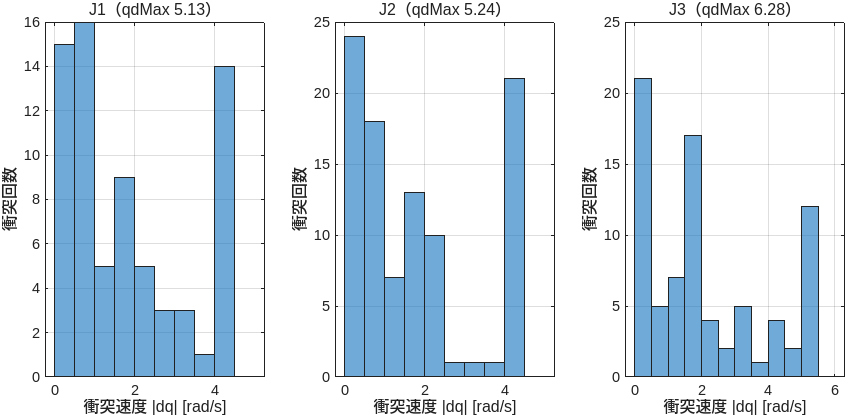
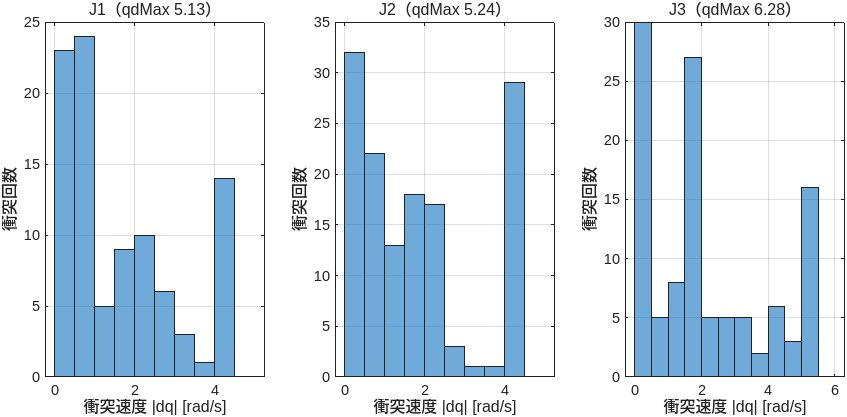
Phase 3-5: bounce 追加後の評価（動的接触 8,708 件・6.9%）とレポート更新 (#27)
Claude-Session: https://claude.ai/code/session_01Vx5dBJ2svBZYaCM69EYLSQ

diff --git a/test/test_sa_contact.m b/test/test_sa_contact.m
@@ -7,7 +7,7 @@ classdef test_sa_contact < matlab.unittest.TestCase
         tmpDir
     end
     properties (TestParameter)
-        scenarioName = {'contact_fall_001','contact_drive_002','contact_drive_004','contact_bln_003','contact_bounce_001','contact_bounce_002','contact_bounce_006'};
+        scenarioName = {'contact_fall_001','contact_drive_002','contact_drive_004','contact_bln_003','contact_bounce_001','contact_bounce_002','contact_bounce_006','contact_bounce_020','contact_bounce_031'};
     end
     methods (TestClassSetup)
         function build(tc)

diff --git a/docs/phase3_5_report.md b/docs/phase3_5_report.md
@@ -1,57 +1,57 @@
 # Phase 3-5 レポート — リミット接触シナリオの追加（3 軸）（issue #27）
 
-実施日: 2026-10-13 / MATLAB R2025a / 生成コード: コミット 37e76f2（クリーン。既存 158 本は 5cfdb77）
+実施日: 2026-10-13 / MATLAB R2025a / 生成コード: コミット 5cfdb77（既存 158 本）・37e76f2（接触 60 本）・追加 bounce 24 本は b4bd1c2（`genRepo` は 3 件、すべて未コミット差分なし）
 
 ## 成果物
 | ファイル | 内容 |
 |---|---|
-| `src/data/saScenarioSet.m` | 3 軸 full に接触 60 本を既存 158 本の**後ろ**へ追加（既存の名前・シード・split・キャッシュは不変。テストで確認）。6 軸と small には入れない |
+| `src/data/saScenarioSet.m` | 3 軸 full に接触 84 本を既存 158 本の**後ろ**へ追加（既存の名前・シード・split・キャッシュは不変。テストで確認）。6 軸と small には入れない |
 | `src/data/runSaScenario.m` | `contactTorque`: 目標軸だけバリアをリミットの外側（位置 1.10、速度 0.80）へ移した励振。他軸は初期姿勢の重力保持＋微小 BLN |
 | `src/data/saContactStats.m`, `tools/sa_contact_report.m` | 接触の統計（軸別・パターン別、動的／静止、衝突速度、めり込み）と図 |
 | `src/data/validateSaData.m` | 接触シナリオの \|dq\| 上限を qdMax の 1.5 倍に（下記 判断 2） |
 | `src/data/saAssembleDataset.m` | `genClean` を「全件が未コミット差分なしのコミットで生成」に変更（コミットは複数でもよい。`genRepo` に並ぶ） |
-| `test/test_sa_contact.m`（11 件）、`spike/phase35_*.m` | 表の検証・代表 7 本の実行・事前の実測 |
+| `test/test_sa_contact.m`（13 件）、`spike/phase35_*.m` | 表の検証・代表 9 本の実行・事前の実測 |
 
-## 接触シナリオ（60 本、継続時間の合計 216 s）
+## 接触シナリオ（84 本、継続時間の合計 252 s）
 | パターン | 本数 | 長さ | 内容 |
 |---|---|---|---|
 | `contact_fall` | 12 | 3 s | 全軸無トルク（微小 BLN）で、乱数姿勢（[0.6 qMin, 0.6 qMax]）から自由落下。バリアは全軸リミットの外側 |
 | `contact_drive` | 18（3 軸 × 両側 × 3） | 3 s | 目標軸に定トルク（0.3〜1.0 × 定格）でリミットへ衝突・押し付け |
 | `contact_bln` | 18（3 軸 × 両側 × 3） | 6 s | 目標軸に大振幅 BLN（1.0 × 定格、5 Hz）＋壁向きバイアス（0.15 × 定格） |
-| `contact_bounce`（新規） | 12（3 軸 × 両側 × 2） | 1.5 s | リミットの 2° 手前から、壁向きの初速（0.3〜0.6 × qdMax）で入る。J1 は壁向きバイアス（+0.15）、J2・J3 は壁から離れる向きのバイアス（−0.30） |
+| `contact_bounce`（新規） | 36（3 軸 × 両側 × 6） | 1.5 s | リミットの 2° 手前から、壁向きの初速（0.3〜0.6 × qdMax）で入る。J1 は壁向きバイアス（+0.15）、J2・J3 は壁から離れる向きのバイアス（−0.30） |
 
-split はパターンごとに 70/15/15（fall・bounce は train 9 / val 1 / test 2、drive・bln は 13 / 2 / 3）。生成は 12 分（2 shard、接触 60 本のウォール合計 1,022 s）。
+split はパターンごとに 70/15/15（fall は train 9 / val 1 / test 2、drive・bln は 13 / 2 / 3、bounce は 26 / 5 / 5）。生成は、最初の 60 本が 12 分（2 shard）、追加の bounce 24 本が約 6 分（2 shard）。bounce を 12 本から 36 本に増やしたため、既存 12 本の split は振り直した（シード・キャッシュは不変）。
 
-## 結果（データセット 218 本、1,253,294 遷移）
-- 検証 `validateSaData` に**合格**。genClean = true（コミット 37e76f2 と 5cfdb77、どちらもクリーン）
-- split: train 153 本 848,500 / val 21 本 121,500 / test 32 本 176,000 / benchmark 12 本 107,294
-- **リミット接触の遷移（`atLimit`）は 109,638 件**（全体の 8.75%）。すべて接触シナリオ内で、既存の 158 本は 0 件のまま。train 83,672 / val 9,766 / test 16,200 / benchmark 0
-- 軸別の接触遷移（軸ごとの合計、定義は `saContactStats`）: J1 約 27,000、J2 約 48,000、J3 約 34,000
-- **動的な接触（\|dq\| > 0.02 または \|Δdq\| > 0.005）は 6,579 件で、接触遷移の 6.0%**。残りは静止して押し付けている遷移
+## 結果（データセット 242 本、1,289,294 遷移）
+- 検証 `validateSaData` に**合格**。genClean = true（3 コミット、すべてクリーン）
+- split: train 170 本 874,000 / val 25 本 127,500 / test 35 本 180,500 / benchmark 12 本 107,294
+- **リミット接触の遷移（`atLimit`）は 125,613 件**（全体の 9.74%）。すべて接触シナリオ内で、既存の 158 本は 0 件のまま。train 10.56% / val 11.83% / test 10.10% / benchmark 0
+- 軸別の接触遷移（軸ごとの合計、定義は `saContactStats`）: J1 37,609、J2 50,379、J3 37,639
+- **動的な接触（\|dq\| > 0.02 または \|Δdq\| > 0.005）は 8,708 件で、接触遷移の 6.9%**（bounce 追加前は 6,579 件・6.0%）。残りは静止して押し付けている遷移
   | パターン | 接触（軸別の合計） | 動的 | 動的の割合 |
   |---|---|---|---|
   | contact_fall | 10,032 | 519 | 5.2% |
   | contact_drive | 37,590 | 1,669 | 4.4% |
   | contact_bln | 54,139 | 3,333 | 6.2% |
-  | contact_bounce | 7,891 | 1,058 | 13.4% |
-- 衝突イベント（非接触 → 接触）は 247 回。めり込みの最大は J1 0.68〜0.69°、J2 0.62〜0.65°、J3 0.26〜0.27°（下限側・上限側）
+  | contact_bounce | 23,866 | 3,187 | 13.4% |
+- 衝突イベント（非接触 → 接触）は 343 回（追加前は 247 回）。めり込みの最大は J1 0.68〜0.69°、J2 0.62〜0.65°、J3 0.26〜0.27°（下限側・上限側）
 - 図: `reports/issue-27/contact_counts.png`（パターン別・軸別の内訳）、`impact_speed.png`（衝突速度の分布）、`contact_timeseries.png`（代表 4 本の時系列）
 - **解析モデル（RNEA＋摩擦）との 1 ステップ整合**（加速度の残差 RMS / 加速度 RMS。サンプル数は下表）:
   | 区分 | 遷移数 | J1 | J2 | J3 |
   |---|---|---|---|---|
-  | 接触遷移（接触シナリオ内） | 2,193 | 1.08 | 1.03 | 1.08 |
-  | 非接触遷移（接触シナリオ内） | 2,400 | 0.037 | 0.017 | 0.021 |
+  | 接触遷移（接触シナリオ内） | 3,153 | 1.08 | 1.03 | 1.07 |
+  | 非接触遷移（接触シナリオ内） | 3,360 | 0.034 | 0.016 | 0.020 |
   | 非接触遷移（既存 158 本のうち 12 遷移/本） | 1,896 | 0.017 | 0.013 | 0.020 |
 
   接触遷移の残差比は約 1（解析モデルは何も説明できていない）。接触なしの遷移は 1〜4%。**接触は解析モデルでは説明できない部分の学習対象になる**。J2 版の 1.08 と同程度
-- **再現性**: 接触 8 本（各パターン 2 本）を別プロセスで再生成して**ビット一致**（8/8、差 0）。2 shard 並列ではなく単独プロセスでの確認
-- HDF5 の再出力 `data/export/sa_flat_full3.h5`（154 MB）を `tools/verify_h5.py` で検証 **62/62 項目 OK**。`at_limit` は train 9.86%、val 8.04%、test 9.20%
+- **再現性**: 接触 8 本（各パターンの先頭と末尾。bounce_036 は追加分）を別プロセスで再生成して**ビット一致**（8/8、差 0）
+- HDF5 の再出力 `data/export/sa_flat_full3.h5`（154 MB）を `tools/verify_h5.py` で検証 **62/62 項目 OK**
 
 ## 判断・発見
 1. **bounce の設計を変更した**: 当初案（±トルクのパルスを 1〜2 Hz で往復）は、事前の実測で J1 が壁まで約 1 秒かかり（半周期 0.25〜0.5 s では届かない）、J2・J3 も衝突が散発的だった。壁の 2° 手前から壁向きの初速で入る方式にし、J2・J3 は壁から離れるバイアスで往復させた。実測（1.5 s）で動的接触の割合は 3〜8%（J1 は壁向きバイアスで 3〜5%）
-2. **衝突の衝撃で、他軸が一時的に qdMax を超える**: J2 が壁に当たると J3 が蹴られる。\|dq\|/qdMax の最大は J3 で 1.36（contact_drive_011）。超過は 7 シナリオ・J3 のみ・計 50 遷移（1 kHz）、持続は数 ms。当初は 1.3 倍を上限にしたが、2 本が超えたため**実測を見てから 1.5 倍に変更した**（基準を後から緩めた点に注意）。物理的にはプラントの挙動で、実機で起こるかは未確認。学習・評価で \|dq\| ≤ qdMax を仮定する場合は、`at_limit` や該当区間の除外を検討する
-3. **動的な接触は 6.0% で、J2 版（6.4%）と同程度**。bounce で 13.4% まで上がったが、件数が 12 本と少なく全体は変わらない。大半は静止して押し付けている遷移（「トルクを変えても位置が動かない」という挙動の学習には使える）。**動的接触を増やすには bounce の本数を増やす**のが近道（1 本 1.5 s と短く、生成コストが小さい）。増やすかどうかは判断が必要
-4. 衝突イベントは 247 回のみ。個々の衝突（接近速度・反発）の多様性は少ない
+2. **衝突の衝撃で、他軸が一時的に qdMax を超える**: J2 が壁に当たると J3 が蹴られる。\|dq\|/qdMax の最大は J3 で 1.36（contact_drive_011）。超過は 11 シナリオ・J3 のみ・計 78 遷移（1 kHz）、持続は数 ms。最大は J3 の 1.360 倍（J1 0.85、J2 0.88）。当初は 1.3 倍を上限にしたが、2 本が超えたため**実測を見てから 1.5 倍に変更した**（基準を後から緩めた点に注意）。物理的にはプラントの挙動で、実機で起こるかは未確認。学習・評価で \|dq\| ≤ qdMax を仮定する場合は、`at_limit` や該当区間の除外を検討する
+3. **動的な接触は 6.9%（J2 版は 6.4%）**。ユーザー判断で bounce を 12→36 本に増やした結果、動的接触の件数は 6,579→8,708（+32%）だが、割合は 6.0%→6.9% にとどまる。bounce 自体の割合は 13.4% のまま（本数を増やしても変わらず、設計で決まる）で、全体の接触遷移の大半は fall・drive・bln の静止押し付け。割合をさらに上げるには、bounce の本数ではなく反発しやすい条件（初速・バイアス）の設計を変える必要がある。静止押し付けは「トルクを変えても位置が動かない」挙動の学習には使える
+4. 衝突イベントは 343 回のみ。個々の衝突（接近速度・反発）の多様性は少ない
 5. 既存 158 本のキャッシュ・split は変わらない。genClean の定義変更は、コミットをまたいだ追加生成を許すため
 
 ## 限界
